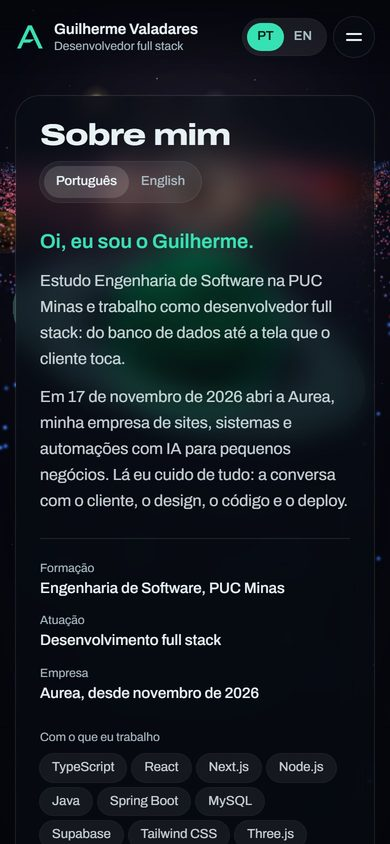
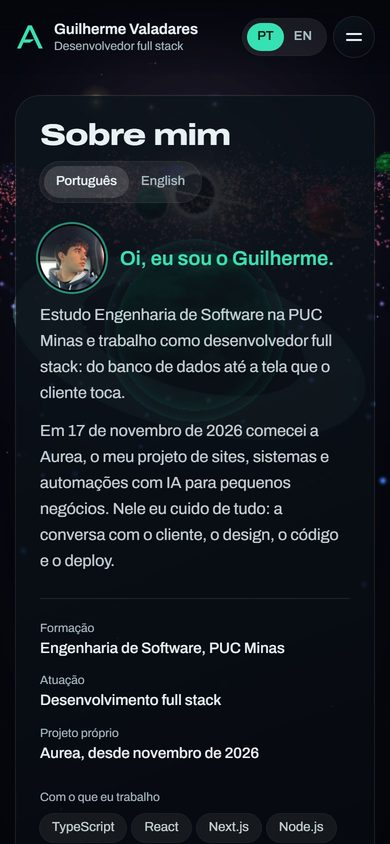
README com a nova entrada, a foto e capturas atualizadas

diff --git a/README.md b/README.md
@@ -7,7 +7,7 @@
   <tr>
     <td width="800px">
       <div align="justify">
-        Este é o meu <b>portfólio profissional</b>, feito para o trabalho de <i>Desenvolvimento e Integração de Aplicações Web</i> do curso de <b>Engenharia de Software da PUC Minas</b>. Ele apresenta quem eu sou, meus <b>projetos em linha do tempo</b>, minhas <b>experiências</b> e as formas de <b>contato</b>, com a identidade visual da <a href="https://auereastack.com.br/">Aurea</a>, a empresa que eu fundei. Ao entrar, a tela liga como um monitor antigo e aparece uma galáxia em 3D. Rolando a página, você viaja por ela: passa pelo planeta de onde eu saí, por um planeta para cada projeto, por uma constelação com as experiências e termina no buraco negro do centro, onde fica o formulário de contato.
+        Este é o meu <b>portfólio profissional</b>, feito para o trabalho de <i>Desenvolvimento e Integração de Aplicações Web</i> do curso de <b>Engenharia de Software da PUC Minas</b>. Ele apresenta quem eu sou, meus <b>projetos em linha do tempo</b>, minhas <b>experiências</b> e as formas de <b>contato</b>, com a identidade visual da <a href="https://auereastack.com.br/">Aurea</a>, o meu projeto de sites, sistemas e automações. Ao entrar, a tela liga como um monitor antigo e aparece uma galáxia em 3D. Rolando a página, você viaja por ela: passa pelo planeta de onde eu saí, por um planeta para cada projeto, por uma constelação com as experiências e termina no buraco negro do centro, onde fica o formulário de contato.
       </div>
     </td>
     <td>
@@ -61,7 +61,7 @@
 * 🌐 **Site publicado:** [guilhermevaladares7.github.io/portfolio](https://guilhermevaladares7.github.io/portfolio/)
   > 💻 Hospedado de graça no **GitHub Pages**, publicado automaticamente pelo GitHub Actions a cada push na `main`.
 * 🏢 **Aurea:** [auereastack.com.br](https://auereastack.com.br/)
-  > A empresa de sites, sistemas e automações com IA que eu fundei. O portfólio usa as cores, as fontes, o logo e o mascote dela.
+  > O meu projeto de sites, sistemas e automações com IA para pequenos negócios. O portfólio usa as cores, as fontes, o logo e o mascote dele.
 
 ---
 
@@ -86,8 +86,8 @@ O objetivo é apresentar a minha trajetória, minhas habilidades, meus projetos 
 
 ## ✨ Funcionalidades Principais
 
-- 📺 **Abertura épica:** a tela liga como um monitor CRT e a câmera começa a 7 mil unidades de distância, com a nossa galáxia do tamanho de um ponto entre centenas de outras. Ela mergulha em escala logarítmica, passa voando por galáxias no caminho, abre o campo de visão no meio do voo para dar sensação de velocidade e para na vista da galáxia, enquanto três frases mostram o tamanho do universo. Dá para pular.
-- 🌌 **Universo em 3D guiado pela rolagem:** galáxia espiral com 36 mil partículas, centenas de galáxias distantes, planetas com superfície procedural, constelação e buraco negro com disco de acreção, todos em shaders próprios.
+- 📺 **Abertura épica:** a tela liga como um monitor CRT e a câmera aparece rente à superfície de um planeta gigante, com o anel cortando o céu e o centro da galáxia nascendo no horizonte. Depois ela sobe, se afasta até o planeta virar um ponto e abre a vista da galáxia inteira, com centenas de outras galáxias ao fundo. Dá para pular.
+- 🌌 **Universo em 3D guiado pela rolagem:** galáxia espiral com 24 mil partículas, centenas de galáxias distantes, planetas com superfície procedural, constelação e buraco negro com disco de acreção, todos em shaders próprios.
 - 🪐 **Planetas clicáveis:** clicar num planeta leva até o projeto dele. Passar o mouse destaca o projeto na linha do tempo.
 - 🗂 **Linha do tempo dos projetos:** oito projetos em ordem cronológica, cada um com nome, descrição, tecnologias, link do GitHub, link do site no ar (quando existe) e um GIF dele funcionando.
 - 💼 **Experiências organizadas:** empresa ou instituição, cargo ou atividade, período e descrição de cada etapa.
@@ -333,9 +333,9 @@ O projeto não tem testes automatizados: é uma página de apresentação, sem r
 
 ## 👤 Autor
 
-| 👤 Nome | :octocat: GitHub | 💼 LinkedIn | 📤 Gmail |
-|---------|-----------------|-------------|-----------|
-| Guilherme Ferreira Valadares | <div align="center"><a href="https://github.com/guilhermevaladares7"><img src="https://joaopauloaramuni.github.io/image/github6.png" width="50px" height="50px"></a></div> | <div align="center"><a href="https://www.linkedin.com/in/guilherme-ferreira-valadares-43009640b/"><img src="https://joaopauloaramuni.github.io/image/linkedin2.png" width="50px" height="50px"></a></div> | <div align="center"><a href="mailto:glhrmvaladares@gmail.com"><img src="https://joaopauloaramuni.github.io/image/gmail3.png" width="50px" height="50px"></a></div> |
+| 👤 Nome | 🖼 Foto | :octocat: GitHub | 💼 LinkedIn | 📤 Gmail |
+|---------|----------|-----------------|-------------|-----------|
+| Guilherme Ferreira Valadares | <div align="center"><img src="public/guilherme.jpg" width="70px" height="70px"></div> | <div align="center"><a href="https://github.com/guilhermevaladares7"><img src="https://joaopauloaramuni.github.io/image/github6.png" width="50px" height="50px"></a></div> | <div align="center"><a href="https://www.linkedin.com/in/guilherme-ferreira-valadares-43009640b/"><img src="https://joaopauloaramuni.github.io/image/linkedin2.png" width="50px" height="50px"></a></div> | <div align="center"><a href="mailto:glhrmvaladares@gmail.com"><img src="https://joaopauloaramuni.github.io/image/gmail3.png" width="50px" height="50px"></a></div> |
 
 ---
 
